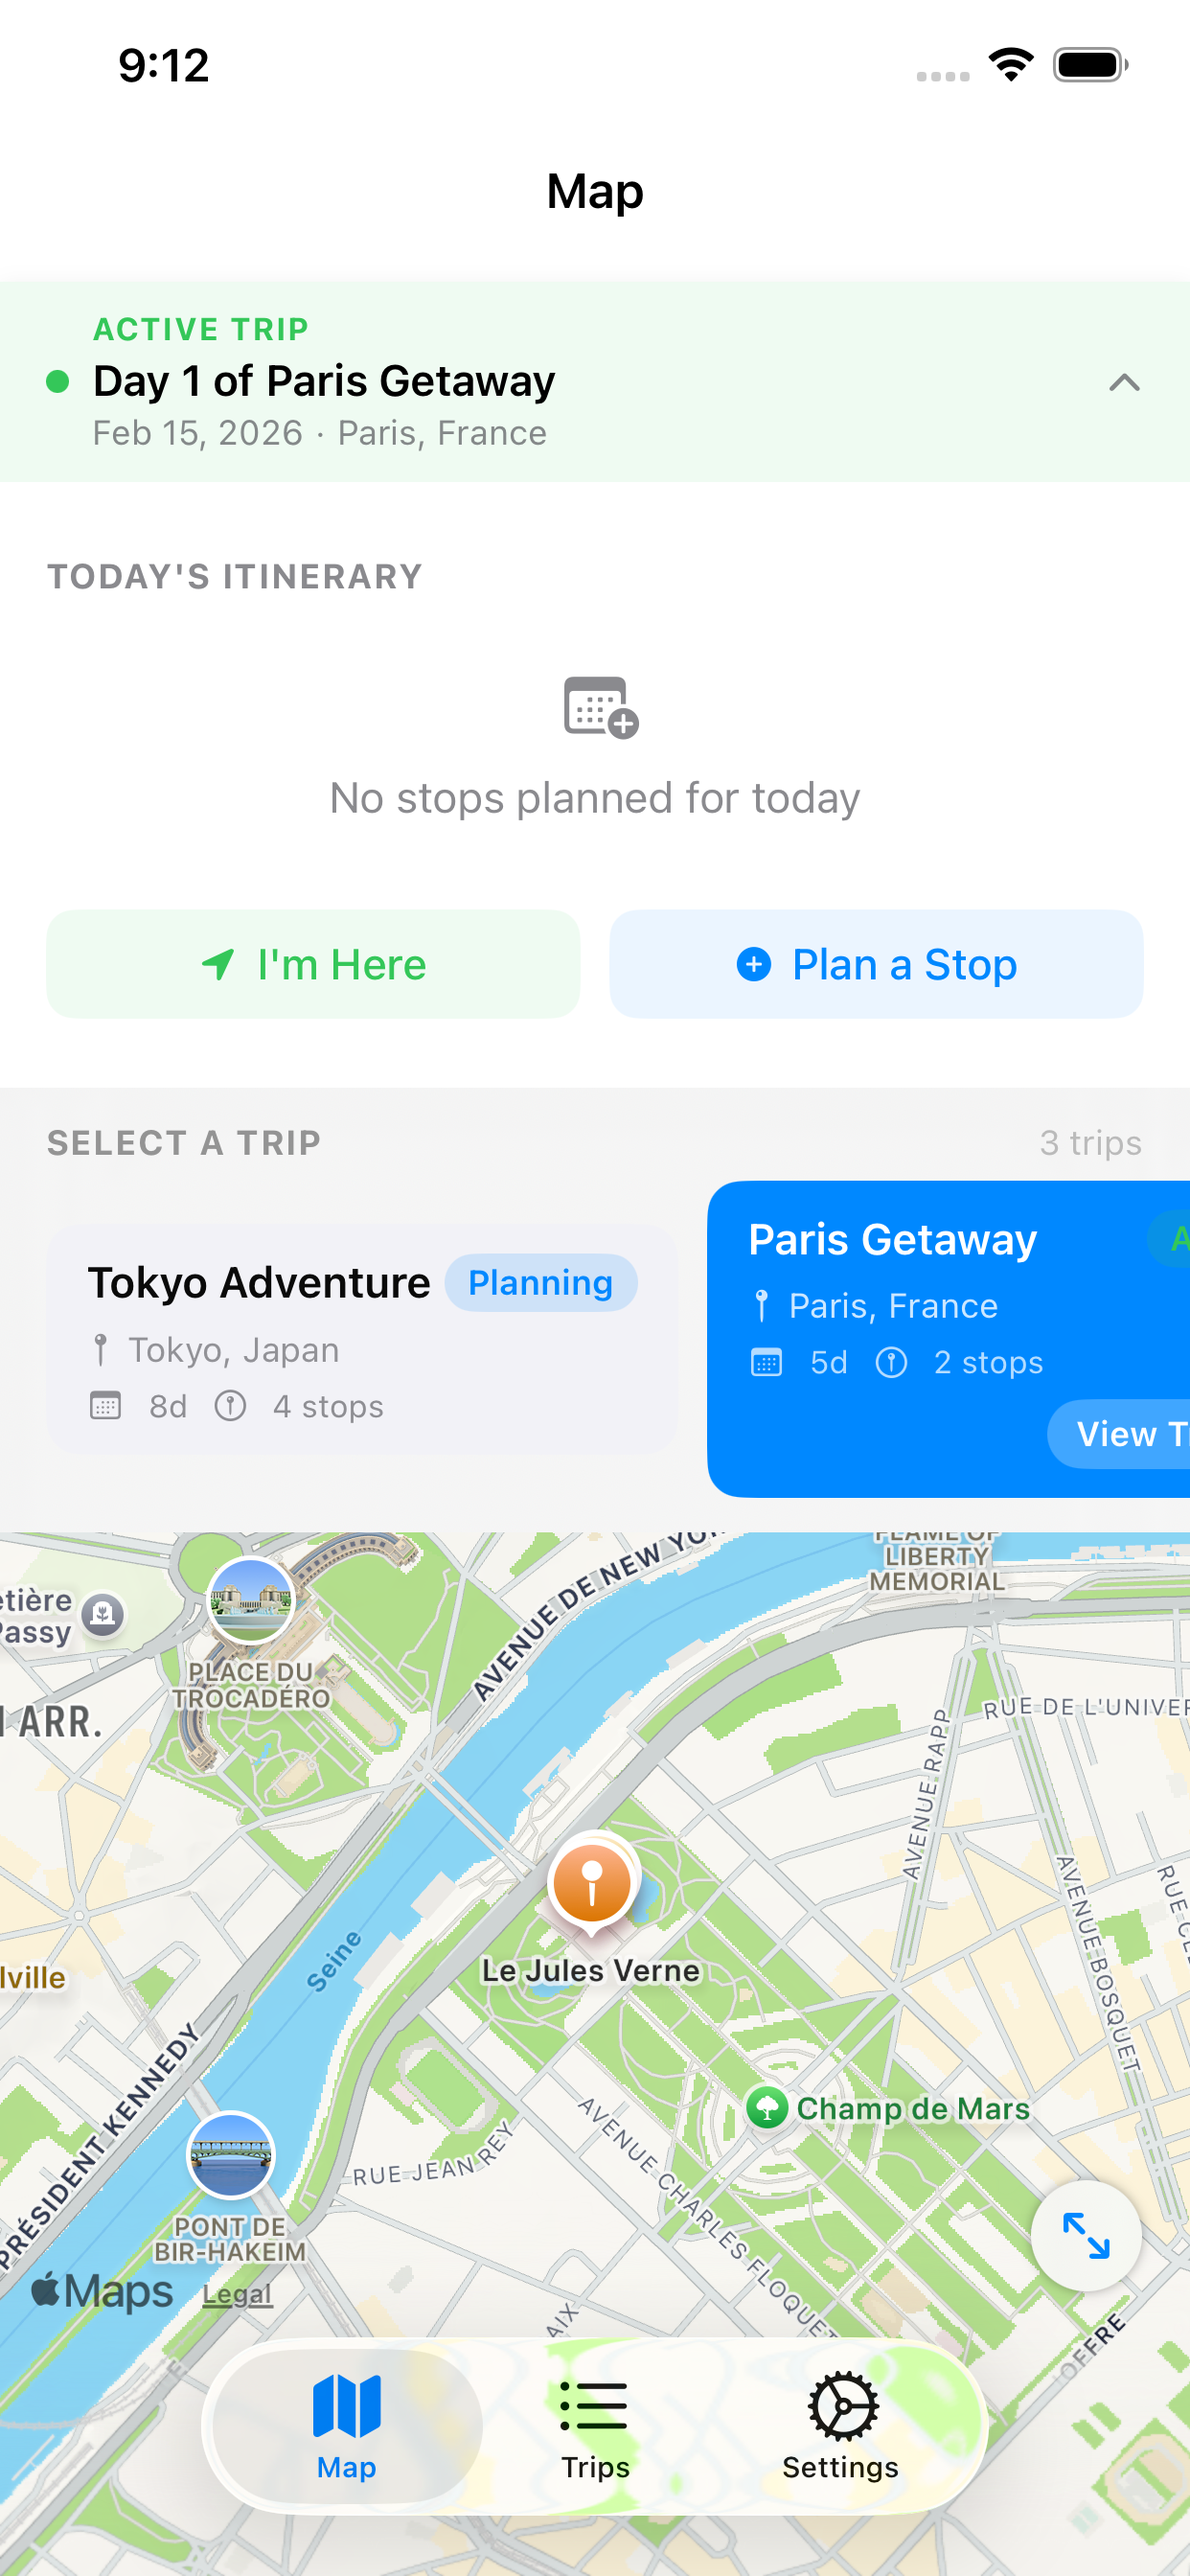
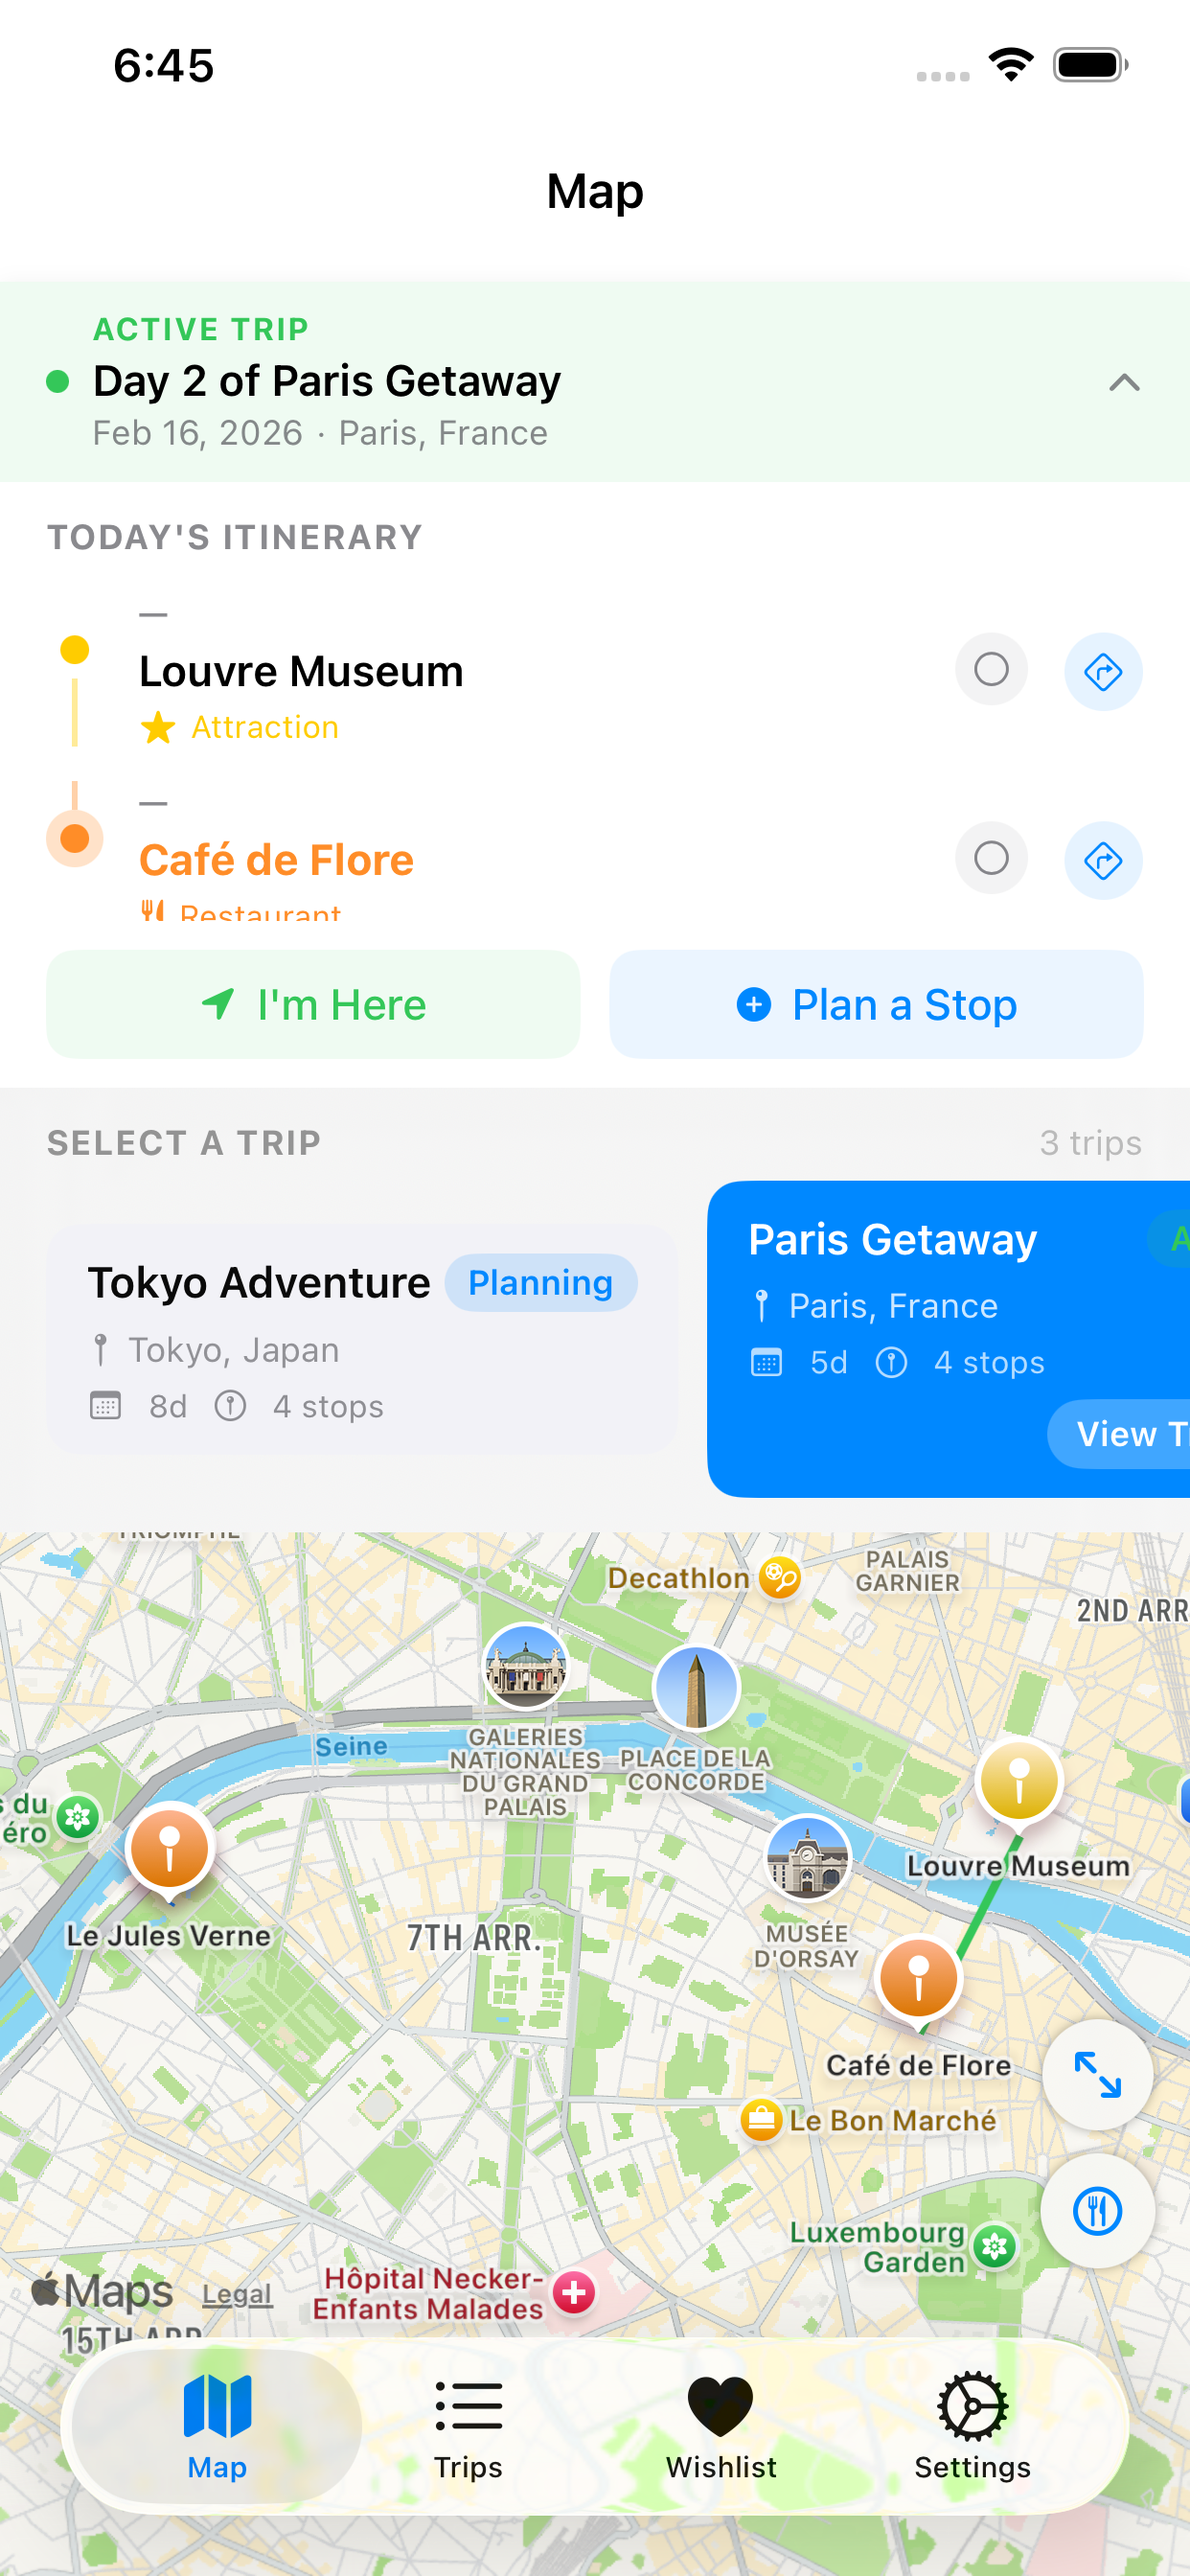
Wishlist city filter, edit items, search radius in miles, map buttons, fresh screenshots
- Wishlist: add city filter chip bar, auto-populate city from location search,
  tap row to edit item, remove manual City/Region field
- Settings: always display search radius in miles
- Map: fix nearby/fit buttons not visible with proper padding
- Screenshots: retake all 5 for both 6.5" and 6.7" showing distinct screens
  (trips list, trip detail, map, wishlist, settings)
- Seed wishlist data for screenshot mode
- Build 12

diff --git a/Travly/Views/WishlistView.swift b/Travly/Views/WishlistView.swift
@@ -11,6 +11,30 @@ struct WishlistView: View {
 
     @State private var showingAddItem = false
     @State private var itemToAddToTrip: WishlistItemEntity?
+    @State private var itemToEdit: WishlistItemEntity?
+    @State private var selectedCity: String = "All"
+
+    private var uniqueCities: [String] {
+        let cities = items.compactMap { $0.destination.isEmpty ? nil : $0.destination }
+        return Array(Set(cities)).sorted()
+    }
+
+    private var filterOptions: [String] {
+        var options = ["All"] + uniqueCities
+        let hasUncategorized = items.contains { $0.destination.isEmpty }
+        if hasUncategorized && !uniqueCities.isEmpty {
+            options.append("Other")
+        }
+        return options
+    }
+
+    private var filteredItems: [WishlistItemEntity] {
+        switch selectedCity {
+        case "All": return items
+        case "Other": return items.filter { $0.destination.isEmpty }
+        default: return items.filter { $0.destination == selectedCity }
+        }
+    }
 
     var body: some View {
         Group {
@@ -33,6 +57,9 @@ struct WishlistView: View {
         }
         .sheet(item: $itemToAddToTrip) { item in
             AddWishlistToTripSheet(item: item, trips: allTrips)
+        }
+        .sheet(item: $itemToEdit) { item in
+            EditWishlistItemSheet(item: item)
         }
     }
 
@@ -63,9 +90,16 @@ struct WishlistView: View {
     }
 
     private var listContent: some View {
-        List {
-            ForEach(items) { item in
-                wishlistRow(item)
+        VStack(spacing: 0) {
+            if filterOptions.count > 2 {
+                cityFilterBar
+            }
+            List {
+                ForEach(filteredItems) { item in
+                    Button { itemToEdit = item } label: {
+                        wishlistRow(item)
+                    }
+                    .buttonStyle(.plain)
                     .swipeActions(edge: .trailing) {
                         Button(role: .destructive) {
                             modelContext.delete(item)
@@ -82,9 +116,37 @@ struct WishlistView: View {
                         }
                         .tint(.blue)
                     }
+                }
             }
+            .listStyle(.insetGrouped)
         }
-        .listStyle(.insetGrouped)
+    }
+
+    private var cityFilterBar: some View {
+        ScrollView(.horizontal, showsIndicators: false) {
+            HStack(spacing: 8) {
+                ForEach(filterOptions, id: \.self) { option in
+                    Button {
+                        withAnimation(.easeInOut(duration: 0.2)) {
+                            selectedCity = option
+                        }
+                    } label: {
+                        Text(option)
+                            .font(.subheadline)
+                            .fontWeight(selectedCity == option ? .semibold : .regular)
+                            .padding(.horizontal, 14)
+                            .padding(.vertical, 7)
+                            .background(selectedCity == option ? Color.pink : Color(.systemGray5))
+                            .foregroundStyle(selectedCity == option ? .white : .primary)
+                            .clipShape(Capsule())
+                    }
+                    .buttonStyle(.plain)
+                }
+            }
+            .padding(.horizontal)
+            .padding(.vertical, 10)
+        }
+        .background(Color(.systemGroupedBackground))
     }
 
     private func wishlistRow(_ item: WishlistItemEntity) -> some View {
@@ -153,19 +215,18 @@ struct AddWishlistItemSheet: View {
     @Environment(\.dismiss) private var dismiss
 
     @State private var name = ""
-    @State private var destination = ""
     @State private var category: StopCategory = .attraction
     @State private var notes = ""
     @State private var latitude: Double = 0
     @State private var longitude: Double = 0
     @State private var locationName = ""
+    @State private var locationCity = ""
 
     var body: some View {
         NavigationStack {
             Form {
                 Section {
                     TextField("Place Name", text: $name)
-                    TextField("City / Region", text: $destination)
                     CategoryPicker(selection: $category)
                 } header: { Text("Details") }
 
@@ -173,10 +234,11 @@ struct AddWishlistItemSheet: View {
                     LocationSearchView(
                         selectedName: $locationName,
                         selectedLatitude: $latitude,
-                        selectedLongitude: $longitude
+                        selectedLongitude: $longitude,
+                        selectedCity: $locationCity
                     )
                     .listRowInsets(EdgeInsets())
-                } header: { Text("Location (optional)") }
+                } header: { Text("Location") }
 
                 Section {
                     TextField("Notes", text: $notes, axis: .vertical)
@@ -201,7 +263,7 @@ struct AddWishlistItemSheet: View {
     private func saveItem() {
         let item = WishlistItemEntity(
             name: name.trimmingCharacters(in: .whitespaces),
-            destination: destination.trimmingCharacters(in: .whitespaces),
+            destination: locationCity.trimmingCharacters(in: .whitespaces),
             latitude: latitude,
             longitude: longitude,
             category: category,
@@ -311,5 +373,79 @@ struct AddWishlistToTripSheet: View {
         stop.website = item.website
         try? modelContext.save()
         added = true
+    }
+}
+
+// MARK: - Edit Wishlist Item Sheet
+
+struct EditWishlistItemSheet: View {
+    @Environment(\.modelContext) private var modelContext
+    @Environment(\.dismiss) private var dismiss
+
+    @Bindable var item: WishlistItemEntity
+
+    @State private var name: String = ""
+    @State private var category: StopCategory = .attraction
+    @State private var notes: String = ""
+    @State private var latitude: Double = 0
+    @State private var longitude: Double = 0
+    @State private var locationName: String = ""
+    @State private var locationCity: String = ""
+
+    var body: some View {
+        NavigationStack {
+            Form {
+                Section {
+                    TextField("Place Name", text: $name)
+                    CategoryPicker(selection: $category)
+                } header: { Text("Details") }
+
+                Section {
+                    LocationSearchView(
+                        selectedName: $locationName,
+                        selectedLatitude: $latitude,
+                        selectedLongitude: $longitude,
+                        selectedCity: $locationCity
+                    )
+                    .listRowInsets(EdgeInsets())
+                } header: { Text("Location") }
+
+                Section {
+                    TextField("Notes", text: $notes, axis: .vertical)
+                        .lineLimit(2...4)
+                } header: { Text("Notes") }
+            }
+            .navigationTitle("Edit Place")
+            .navigationBarTitleDisplayMode(.inline)
+            .toolbar {
+                ToolbarItem(placement: .cancellationAction) { Button("Cancel") { dismiss() } }
+                ToolbarItem(placement: .confirmationAction) {
+                    Button("Save") { saveChanges() }
+                        .disabled(name.trimmingCharacters(in: .whitespaces).isEmpty)
+                }
+            }
+            .onAppear { loadItem() }
+        }
+    }
+
+    private func loadItem() {
+        name = item.name
+        category = item.category
+        notes = item.notes
+        latitude = item.latitude
+        longitude = item.longitude
+        locationName = item.name
+        locationCity = item.destination
+    }
+
+    private func saveChanges() {
+        item.name = name.trimmingCharacters(in: .whitespaces)
+        item.category = category
+        item.notes = notes.trimmingCharacters(in: .whitespaces)
+        item.latitude = latitude
+        item.longitude = longitude
+        item.destination = locationCity.trimmingCharacters(in: .whitespaces)
+        try? modelContext.save()
+        dismiss()
     }
 }

diff --git a/Travly/Views/Components/LocationSearchView.swift b/Travly/Views/Components/LocationSearchView.swift
@@ -5,6 +5,7 @@ struct LocationSearchResult: Identifiable {
     let id = UUID()
     let name: String
     let subtitle: String
+    let city: String
     let latitude: Double
     let longitude: Double
 }
@@ -14,6 +15,7 @@ struct LocationSearchView: View {
     @Binding var selectedName: String
     @Binding var selectedLatitude: Double
     @Binding var selectedLongitude: Double
+    @Binding var selectedCity: String
 
     @State private var searchText = ""
     @State private var searchResults: [LocationSearchResult] = []
@@ -217,11 +219,14 @@ struct LocationSearchView: View {
             let response = try await search.start()
             guard !Task.isCancelled else { return }
             searchResults = response.mapItems.prefix(6).map { item in
-                LocationSearchResult(
+                let placemark = item.placemark
+                let city = placemark.locality ?? placemark.administrativeArea ?? ""
+                return LocationSearchResult(
                     name: item.name ?? "Unknown",
-                    subtitle: item.placemark.title ?? "",
-                    latitude: item.placemark.coordinate.latitude,
-                    longitude: item.placemark.coordinate.longitude
+                    subtitle: placemark.title ?? "",
+                    city: city,
+                    latitude: placemark.coordinate.latitude,
+                    longitude: placemark.coordinate.longitude
                 )
             }
             if searchResults.isEmpty {
@@ -244,6 +249,7 @@ struct LocationSearchView: View {
         selectedName = result.name
         selectedLatitude = result.latitude
         selectedLongitude = result.longitude
+        selectedCity = result.city
         searchText = result.name
         searchResults = []
         hasSelected = true
@@ -262,6 +268,7 @@ struct LocationSearchView: View {
         selectedName = ""
         selectedLatitude = 0
         selectedLongitude = 0
+        selectedCity = ""
         hasSelected = false
         cameraPosition = .automatic
     }

diff --git a/Travly/ContentView.swift b/Travly/ContentView.swift
@@ -1,5 +1,6 @@
 import SwiftUI
 import SwiftData
+import TripCore
 
 struct ContentView: View {
 
@@ -36,6 +37,7 @@ struct ContentView: View {
                         switch screenshotTab {
                         case "map": selectedTab = 0
                         case "trips": selectedTab = 1
+                        case "wishlist": selectedTab = 2
                         case "settings": selectedTab = 3
                         case "tripdetail":
                             selectedTab = 1
@@ -104,6 +106,27 @@ struct ContentView: View {
             let manager = DataManager(modelContext: modelContext)
             manager.loadSampleDataIfEmpty()
         }
+        let wishlistDescriptor = FetchDescriptor<WishlistItemEntity>()
+        let wishlistCount = (try? modelContext.fetchCount(wishlistDescriptor)) ?? 0
+        if wishlistCount == 0 {
+            seedWishlistItems()
+        }
+    }
+
+    private func seedWishlistItems() {
+        let items: [(String, String, Double, Double, StopCategory)] = [
+            ("Sagrada Família", "Barcelona", 41.4036, 2.1744, .attraction),
+            ("Tsukiji Outer Market", "Tokyo", 35.6654, 139.7707, .restaurant),
+            ("Santorini Sunset", "Santorini", 36.4310, 25.4315, .activity),
+            ("Banff National Park", "Alberta", 51.4968, -115.9281, .activity),
+            ("Borough Market", "London", 51.5055, -0.0910, .restaurant),
+            ("Colosseum", "Rome", 41.8902, 12.4922, .attraction),
+        ]
+        for (name, city, lat, lon, cat) in items {
+            let item = WishlistItemEntity(name: name, destination: city, latitude: lat, longitude: lon, category: cat)
+            modelContext.insert(item)
+        }
+        try? modelContext.save()
     }
     #endif
 }

diff --git a/Travly/Views/AddStopSheet.swift b/Travly/Views/AddStopSheet.swift
@@ -17,6 +17,7 @@ struct AddStopSheet: View {
     @State private var latitude: Double = 0
     @State private var longitude: Double = 0
     @State private var locationName = ""
+    @State private var locationCity = ""
 
     @State private var useArrivalTime = false
     @State private var arrivalTime = Calendar.current.date(bySettingHour: 9, minute: 0, second: 0, of: Date()) ?? Date()
@@ -80,7 +81,8 @@ struct AddStopSheet: View {
             LocationSearchView(
                 selectedName: $locationName,
                 selectedLatitude: $latitude,
-                selectedLongitude: $longitude
+                selectedLongitude: $longitude,
+                selectedCity: $locationCity
             )
             .listRowInsets(EdgeInsets())
         } header: {

diff --git a/Travly/Views/SettingsView.swift b/Travly/Views/SettingsView.swift
@@ -142,18 +142,9 @@ struct SettingsView: View {
     }
 
     private func formatRadius(_ miles: Double) -> String {
-        if Locale.current.measurementSystem == .us {
-            if miles < 1.0 {
-                let feet = Int(miles * 5280)
-                return "\(feet) ft"
-            }
-            return String(format: "%.1f mi", miles)
-        } else {
-            let km = miles * 1.60934
-            if km < 1.0 {
-                return "\(Int(km * 1000)) m"
-            }
-            return String(format: "%.1f km", km)
+        if miles == 1.0 {
+            return "1 mile"
         }
+        return String(format: "%.1f miles", miles)
     }
 }

diff --git a/Travly/Views/TripMapView.swift b/Travly/Views/TripMapView.swift
@@ -277,6 +277,8 @@ struct TripMapView: View {
                     fitButton
                     nearbyToggleButton
                 }
+                .padding(.trailing, 12)
+                .padding(.bottom, 24)
             }
         }
     }
@@ -294,7 +296,6 @@ struct TripMapView: View {
                 .shadow(radius: 2)
         }
         .accessibilityLabel("Fit all stops on map")
-        .padding()
     }
 
     private var nearbyToggleButton: some View {
